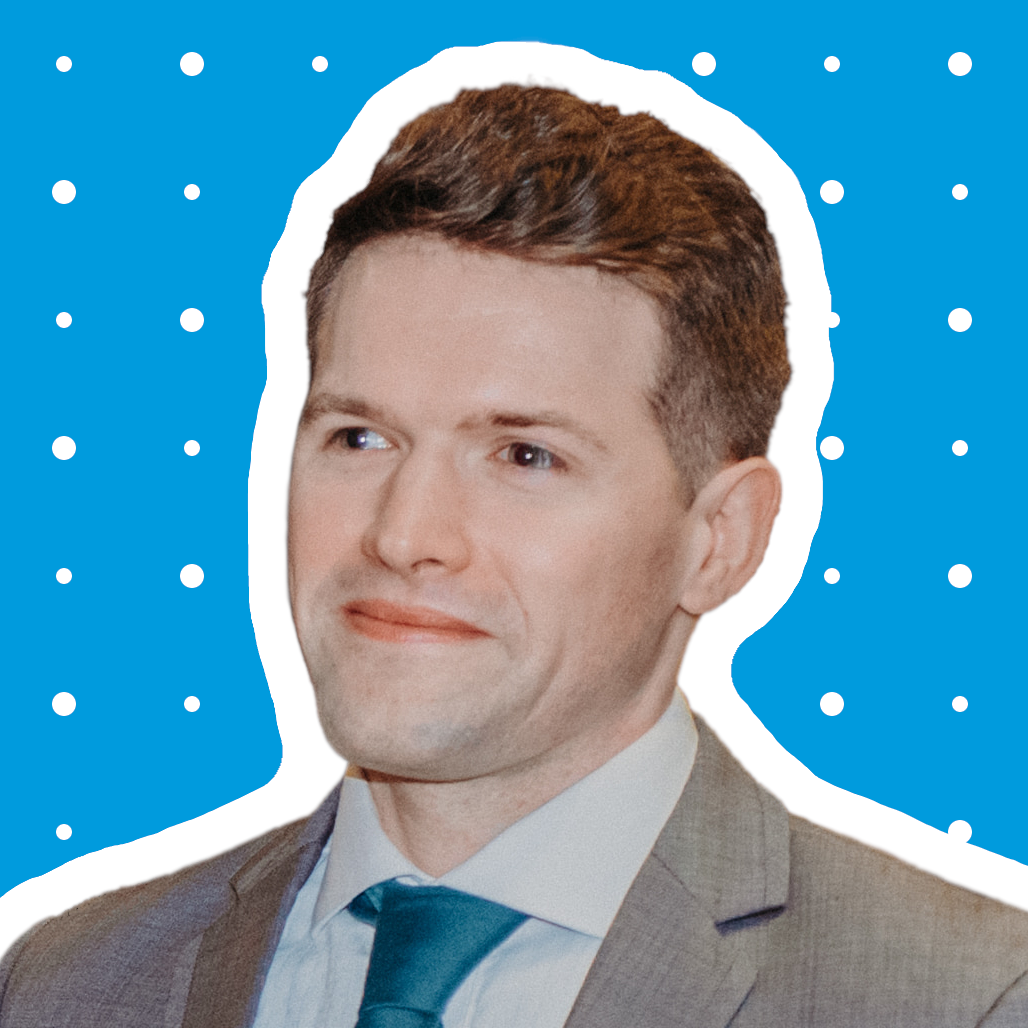
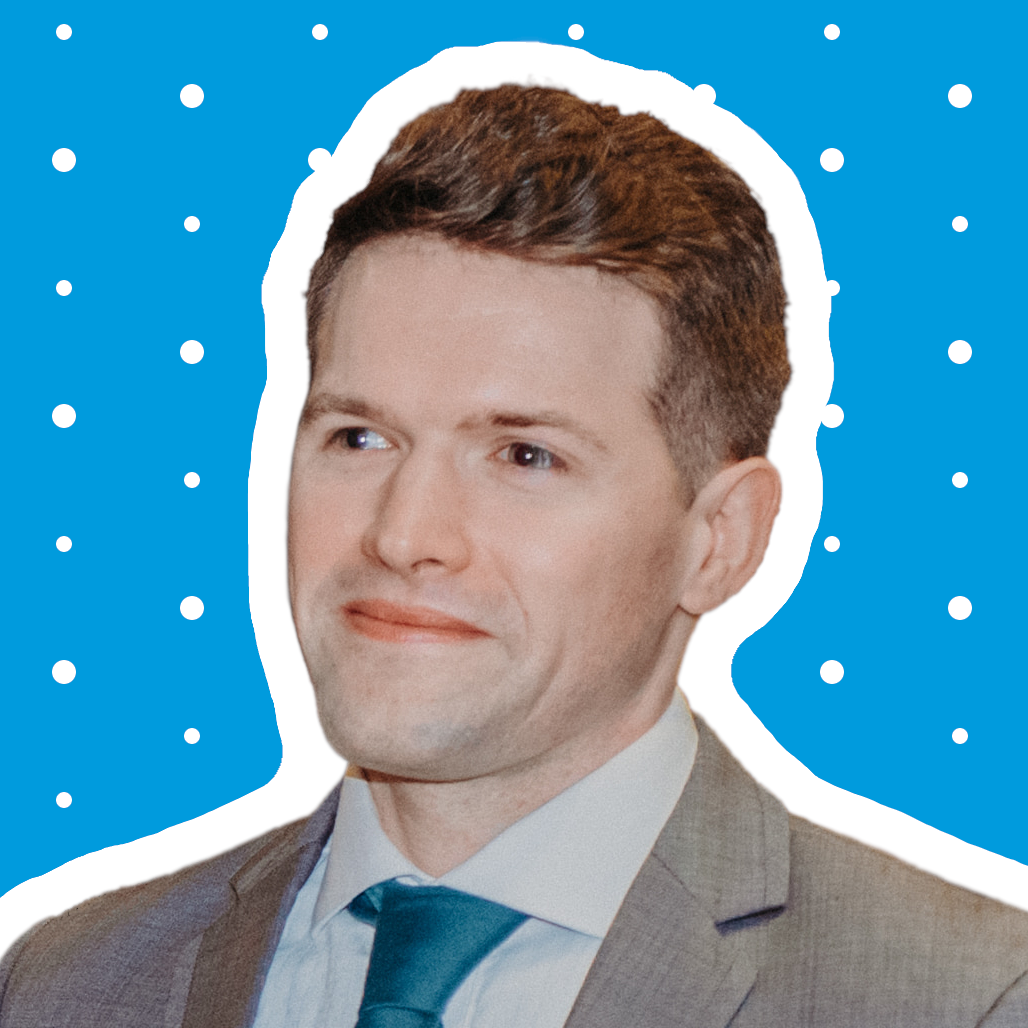
feat(components): Introduce Markdown rendering

diff --git a/src/lib/markdown.ts b/src/lib/markdown.ts
@@ -1,0 +1,47 @@
+import { unified } from 'unified';
+import remarkParse from 'remark-parse';
+import remarkGfm from 'remark-gfm';
+import remarkRehype from 'remark-rehype';
+import rehypeRaw from 'rehype-raw';
+import rehypeSanitize from 'rehype-sanitize';
+import rehypeStringify from 'rehype-stringify';
+
+// Build a single processor instance for efficiency
+// Minimal safe schema: allow common text/formatting elements
+const safeSchema = {
+  tagNames: [
+    'p', 'strong', 'em', 'b', 'i', 'a', 'ul', 'ol', 'li', 'code', 'pre', 'span', 'br'
+  ],
+  attributes: {
+    a: ['href', 'target', 'rel'],
+    code: ['className'],
+  },
+};
+
+const processor = unified()
+  .use(remarkParse)
+  .use(remarkGfm)
+  // Allow raw HTML in the source to be parsed, then sanitize it strictly
+  .use(remarkRehype, { allowDangerousHtml: true })
+  .use(rehypeRaw)
+  .use(rehypeSanitize, safeSchema)
+  .use(rehypeStringify);
+
+/**
+ * Convert Markdown to sanitized HTML string.
+ */
+export function mdToHtml(input?: string): string {
+  if (!input) return '';
+  const file = processor.processSync(input);
+  return String(file);
+}
+
+/**
+ * Convert Markdown intended for inline usage (e.g., list items) to HTML and strip a single wrapping <p> tag.
+ */
+export function mdToInlineHtml(input?: string): string {
+  const html = mdToHtml(input);
+  // Strip a single wrapping <p>...</p> if present
+  const m = html.match(/^\s*<p>([\s\S]*)<\/p>\s*$/i);
+  return m ? m[1] : html;
+}

diff --git a/src/components/Markdown.tsx b/src/components/Markdown.tsx
@@ -1,0 +1,21 @@
+import React from 'react';
+import { mdToHtml, mdToInlineHtml } from '../lib/markdown';
+
+type Props = {
+  content?: string | null;
+  children?: React.ReactNode;
+  inline?: boolean;
+  className?: string;
+};
+
+export function Markdown({ content, children, inline = false, className }: Props) {
+  const source =
+    typeof content === 'string' ? content : typeof children === 'string' ? children : '';
+  if (!source) return null;
+  const html = inline ? mdToInlineHtml(source) : mdToHtml(source);
+  // Apply prose classes only for block mode
+  const cls = className || (inline ? undefined : 'prose prose-invert');
+  return <div className={cls} dangerouslySetInnerHTML={{ __html: html }} />;
+}
+
+export default Markdown;

diff --git a/src/components/Work.tsx b/src/components/Work.tsx
@@ -8,6 +8,8 @@ import { LoadingSkeleton } from './ui/loading-skeleton';
 import { useTouchGestures } from './hooks/useTouchGestures';
 import { Calendar, MapPin, Download, ChevronDown, Trophy, Tag } from 'lucide-react';
 import { SectionAnchor } from './SectionAnchor';
+import { Markdown } from './Markdown';
+import { mdToInlineHtml } from '../lib/markdown';
 
 import type { ResumeWork, SiteConfigRoot } from '../lib/types';
 import { formatRange, parseDate } from '../lib/mappers';
@@ -326,7 +328,11 @@ function MobileExperienceCard({
               )}
             </CardHeader>
             <CardContent>
-              {exp.description && <p className="mb-4 text-muted-foreground">{exp.description}</p>}
+              {exp.description && (
+                <div className="mb-4 text-muted-foreground">
+                  <Markdown>{exp.description}</Markdown>
+                </div>
+              )}
               {hasDetails && (
                 <div className="w-full flex items-center justify-between p-0 h-auto">
                   <span className="text-sm text-primary group-hover:text-primary/80 transition-colors">
@@ -378,7 +384,7 @@ function MobileExperienceCard({
                               transition={{ duration: 0.3, delay: i * 0.08 }}
                               className="text-sm text-muted-foreground list-disc"
                             >
-                              {h}
+                              <span dangerouslySetInnerHTML={{ __html: mdToInlineHtml(h) }} />
                             </motion.li>
                           ))}
                         </ul>
@@ -387,9 +393,9 @@ function MobileExperienceCard({
                     {exp.summary && (
                       <div className="space-y-2">
                         <h4 className="flex items-center gap-2 text-sm font-medium">Summary</h4>
-                        <p className="text-sm text-muted-foreground leading-relaxed">
-                          {exp.summary}
-                        </p>
+                        <div className="text-sm text-muted-foreground leading-relaxed">
+                          <Markdown>{exp.summary}</Markdown>
+                        </div>
                       </div>
                     )}
                     {exp.keywords && exp.keywords.length > 0 && (
@@ -533,7 +539,7 @@ function DesktopExperienceCard({
                             transition={{ duration: 0.3, delay: i * 0.08 }}
                             className="text-sm text-muted-foreground list-disc"
                           >
-                            {h}
+                            <span dangerouslySetInnerHTML={{ __html: mdToInlineHtml(h) }} />
                           </motion.li>
                         ))}
                       </ul>

diff --git a/src/components/Projects.tsx b/src/components/Projects.tsx
@@ -1,5 +1,5 @@
 import { motion } from 'framer-motion';
-import { Card, CardContent, CardDescription, CardHeader, CardTitle } from './ui/card';
+import { Card, CardContent, CardHeader, CardTitle } from './ui/card';
 import { Badge } from './ui/badge';
 import { Button } from './ui/button';
 import { ExternalLink } from 'lucide-react';
@@ -7,6 +7,7 @@ import { IconGitHub } from './icons/GitHub';
 import { SectionAnchor } from './SectionAnchor';
 import type { ResumeProject, SiteConfigRoot } from '../lib/types';
 import { useState } from 'react';
+import Markdown from './Markdown';
 
 export function Projects({
   projects,
@@ -80,7 +81,11 @@ export function Projects({
                       <h3>{project.name}</h3>
                     </CardTitle>
                     {project.description && (
-                      <CardDescription>{project.description}</CardDescription>
+                      <div className="text-muted-foreground">
+                        <Markdown className="prose prose-invert prose-sm">
+                          {project.description}
+                        </Markdown>
+                      </div>
                     )}
                   </CardHeader>
                   <CardContent className="space-y-4">

diff --git a/src/components/Education.tsx b/src/components/Education.tsx
@@ -8,6 +8,7 @@ import { GraduationCap, Award, BookOpen, Trophy, Calendar, ExternalLink } from '
 import { SectionAnchor } from './SectionAnchor';
 import type { ResumeCertificate, ResumeEducation, SiteConfigRoot } from '../lib/types';
 import { formatRange, parseDate } from '../lib/mappers';
+import { mdToInlineHtml } from '../lib/markdown';
 
 function EducationItem({
   edu,
@@ -80,7 +81,7 @@ function EducationItem({
                     transition={{ duration: 0.35, delay: 0.15 + i * 0.07 }}
                     className="text-sm text-muted-foreground list-disc"
                   >
-                    {h}
+                    <span dangerouslySetInnerHTML={{ __html: mdToInlineHtml(h) }} />
                   </motion.li>
                 ))}
               </ul>